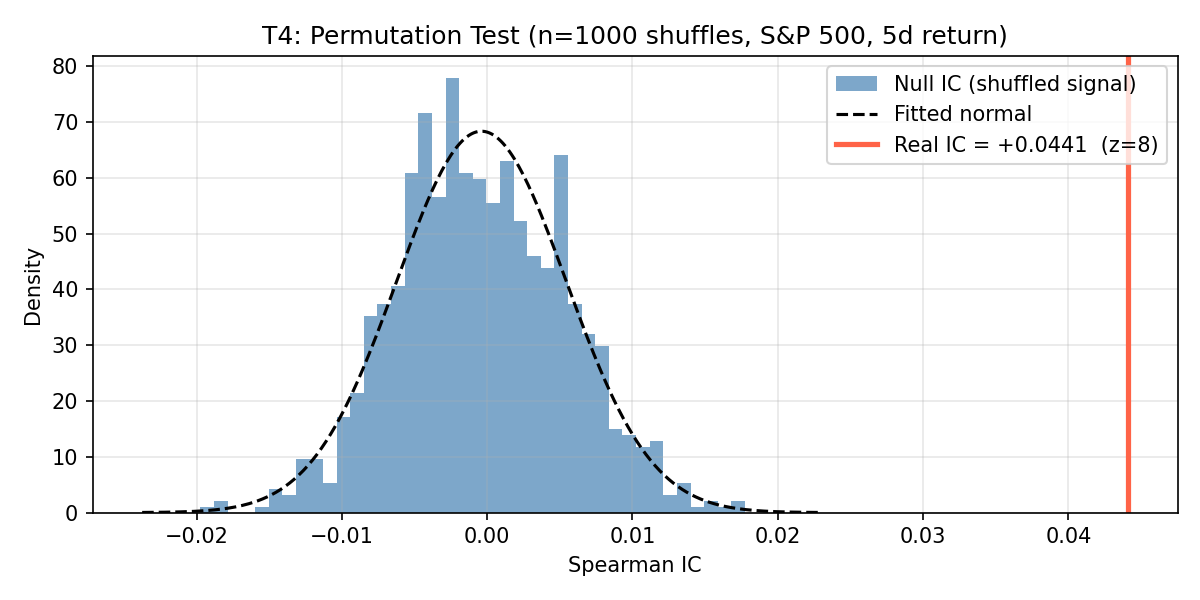
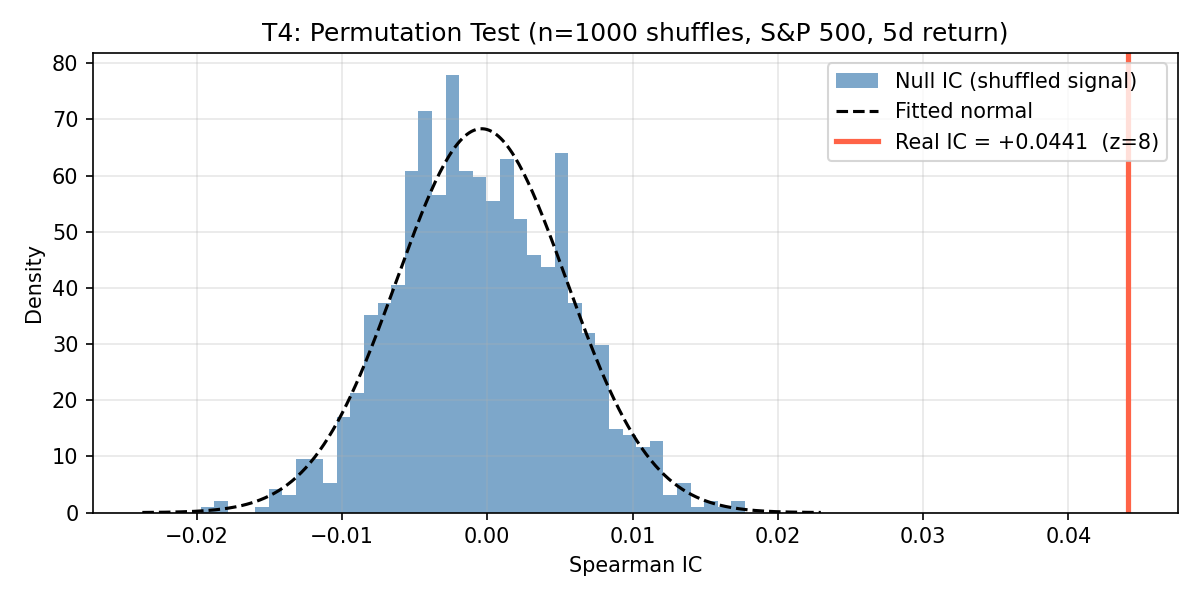
Add `make audit` — runs T1-T17 end-to-end without data downloads
- New Makefile target `make audit` runs the full look-ahead audit suite
  (T1-T8 via 02_lookahead_tests.ipynb, T15-T17 via 07_audit_gap_tests.py,
  and T9-T14 via 06_wrds_lookahead_tests.py if the WRDS parquet exists)
  with explicit pre-flight checks that fail fast if data is missing,
  so 00_data_prep is never triggered.
- Total runtime ~1 minute end-to-end; all 17 tests PASS.
- Refresh 02_lookahead_tests.ipynb cell outputs and test PNGs from
  the verification run.

diff --git a/README.md b/README.md
@@ -85,7 +85,8 @@ Individual targets:
 | `make data` | Run `00_data_prep.ipynb` only (CSV → Parquet, fetches yfinance, ~30–60 min). |
 | `make analysis` | Run `01_analysis.ipynb` only (IC, portfolios, walk-forward ML, ~70 min). |
 | `make tests` | Run `02_lookahead_tests.ipynb` (T1–T8 look-ahead audit, ~2 min). |
-| `make audit_gaps` | Run T15–T17 audit-gap tests (`07_audit_gap_tests.py`). |
+| `make audit_gaps` | Run T15–T17 audit-gap tests (`07_audit_gap_tests.py`, ~30 sec). |
+| `make audit` | **Run ALL look-ahead tests (T1–T17) end-to-end without data downloads** (~3 min). Pre-flight checks fail fast if the parquets are missing rather than re-running `00_data_prep`. Includes T9–T14 WRDS tests if `events_with_returns_wrds.parquet` is present, otherwise skips them with a clear message. |
 | `make report` | Compile `reports/research_report.pdf` via pandoc. |
 | `make charts` | Build `reports/backtest_charts.pdf` from PNG bundle. |
 | `make clean` | Remove generated Parquet files and PNGs. |